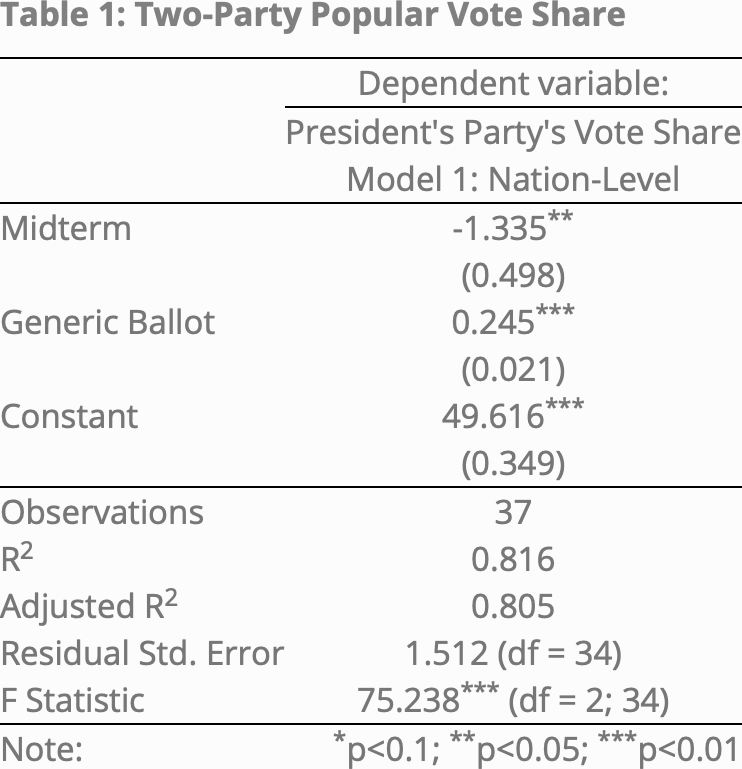
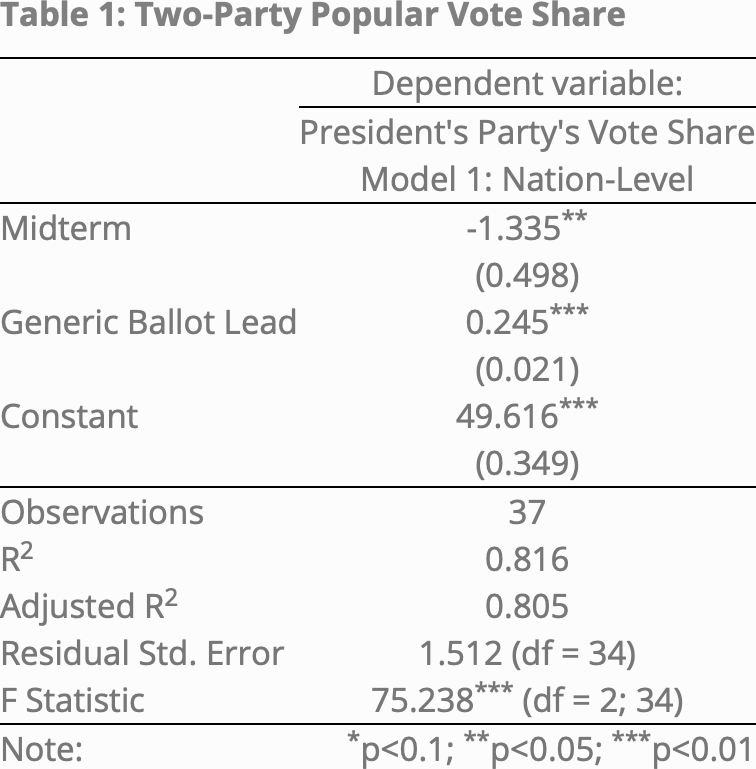
Fixed error

diff --git a/content/posts/08-final/index.html b/content/posts/08-final/index.html
@@ -21,11 +21,11 @@ output: html_document
 <p>The independent variables are as follows:</p>
 <ul>
 <li><strong>Midterm</strong>: The president’s party has lost seats in the House in all but 3 midterm elections since 1900 (Campbell, 2018, p.1). We can expect that the President’s party’s popular vote share tends to be lower in a midterm election.</li>
-<li><strong>Democrat’s lead in the generic ballot</strong>: The literature suggests that the generic ballot is highly predictive of the outcomes of House elections (Abramowitz, 2018; Bafumi et al., 2018). Since polls tend to converge to the actual outcome closer to the election, I calculate the weighted average of the Democrat’s lead in generic ballot polls based on the recency of the poll (Gelman &amp; King, 1993). I dropped the results of polls conducted prior to election year and gave each poll the following weight: (365 – number of days the poll was conducted before election day).</li>
-<li>Although studies have suggested that short-term economic growth prior to the election helps predict the popular vote share of the President’s party, I do not include any economic variables (Achen &amp; Bartels, 2017). As I demonstrated in <a href="https://kentoyamada100.github.io/election-analytics-2022-midterms/posts/03-polling/">Blog Post 03</a>, if the generic ballot is incorporated in the model, economic variables do not increase the model fit because the generic ballot and economic variables are correlated.</li>
+<li><strong>President’s party’s lead in the generic ballot</strong>: The literature suggests that the generic ballot is highly predictive of the outcomes of House elections (Abramowitz, 2018; Bafumi et al., 2018). Since polls tend to converge to the actual outcome closer to the election, I calculate the weighted average of the president’s party’s lead in generic ballot polls based on the recency of the poll (Gelman &amp; King, 1993). I dropped the results of polls conducted prior to election year and gave each poll the following weight: (365 – number of days the poll was conducted before election day).</li>
+<li>Although studies have suggested that short-term economic growth prior to the election helps predict the popular vote share of the president’s party, I do not incorporate any economic variables into my model (Achen &amp; Bartels, 2017). As I demonstrated in <a href="https://kentoyamada100.github.io/election-analytics-2022-midterms/posts/03-polling/">Blog Post 03</a>, if the generic ballot is incorporated in the model, economic variables do not increase the model fit because the generic ballot and economic variables are correlated.</li>
 </ul>
 <p><img src="table1.png" style="width:50.0%" /></p>
-<p>As expected, both variables are significant predictors of the President’s party’s vote share. All else equal, in a midterm election, the president’s party’s popular vote share declines by -1.34 points, and a 1 point increase in the president’s party’s lead in the generic ballot is associated with a 0.25 point increase in the president’s party’s popular vote share.</p>
+<p>As expected, both variables are significant predictors of the president’s party’s vote share. All else equal, in a midterm election, the president’s party’s popular vote share declines by -1.34 points, and a 1 point increase in the president’s party’s lead in the generic ballot is associated with a 0.25 point increase in the president’s party’s popular vote share.</p>
 </div>
 <div id="model-validation" class="section level3">
 <h3>Model Validation</h3>
